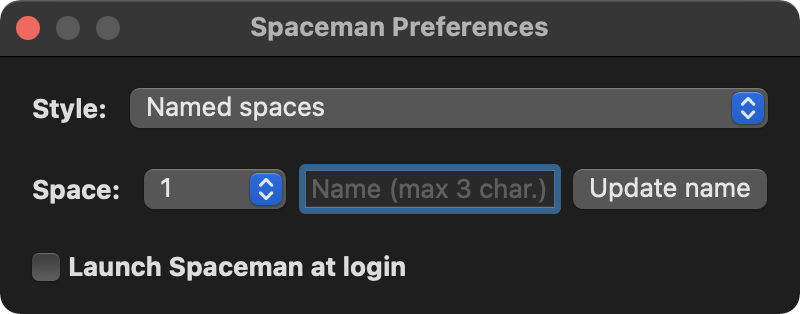
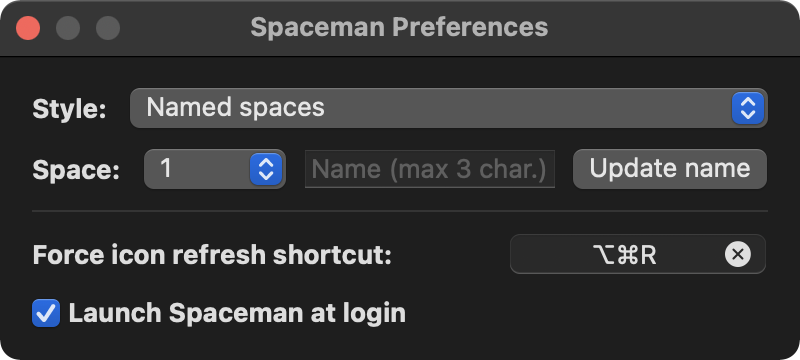
Update README.md

diff --git a/Spaceman/View/PreferencesView.swift b/Spaceman/View/PreferencesView.swift
@@ -15,9 +15,10 @@ struct PreferencesView: View {
     @ObservedObject private var prefsVM = PreferencesViewModel()
     
     var body: some View {
-        VStack(alignment: .leading, spacing: 20, content: {
+        VStack(alignment: .leading, spacing: 10, content: {
             StylePicker
             SpaceNameEditor.disabled(selectedStyle != 3 ? true : false)
+            Divider()
             ShortcutRecorder
             LaunchAtLogin.Toggle(){Text("Launch Spaceman at login").font(.headline)}
         })
@@ -48,7 +49,12 @@ struct PreferencesView: View {
                     Text(String(prefsVM.sortedSpaceNamesDict[$0].value.spaceNum))
                 }
             }
-            TextField("Name (max 3 char.)", text: Binding(get: {prefsVM.spaceName}, set: {prefsVM.spaceName = $0.prefix(3).trimmingCharacters(in: .whitespacesAndNewlines)}), onCommit: updateName)
+            TextField(
+                "Name (max 3 char.)",
+                text: Binding(
+                    get: {prefsVM.spaceName},
+                    set: {prefsVM.spaceName = $0.prefix(3).trimmingCharacters(in: .whitespacesAndNewlines)}),
+                onCommit: updateName)
             
             Button("Update name") {
                 updateName()

diff --git a/Spaceman/AppDelegate.swift b/Spaceman/AppDelegate.swift
@@ -12,15 +12,15 @@ import KeyboardShortcuts
 class AppDelegate: NSObject, NSApplicationDelegate {
 
     private let statusBar = StatusBar()
-    private let observer = SpaceObserver()
-    private let iconBuilder = IconCreator()
+    private let spaceObserver = SpaceObserver()
+    private let iconCreator = IconCreator()
 
     func applicationDidFinishLaunching(_ aNotification: Notification) {
-        observer.delegate = self
-        observer.updateSpaceInformation()
+        spaceObserver.delegate = self
+        spaceObserver.updateSpaceInformation()
         NSApp.activate(ignoringOtherApps: true)
         KeyboardShortcuts.onKeyUp(for: .refresh) { [] in
-            self.observer.updateSpaceInformation()
+            self.spaceObserver.updateSpaceInformation()
         }
     }
 
@@ -31,7 +31,7 @@ class AppDelegate: NSObject, NSApplicationDelegate {
 
 extension AppDelegate: SpaceObserverDelegate {
     func didUpdateSpaces(spaces: [Space]) {
-        let icon = iconBuilder.getIcon(for: spaces)
+        let icon = iconCreator.getIcon(for: spaces)
         statusBar.updateStatusBar(withIcon: icon)
     }
 }

diff --git a/Spaceman/Helpers/IconCreator.swift b/Spaceman/Helpers/IconCreator.swift
@@ -149,7 +149,7 @@ class IconCreator {
     }
     
     func getIconsWithDisplayProps(icons: [NSImage], spaces: [Space]) -> [(NSImage, Bool)] {
-        var iconsWithDisplayProperties = [(icon: NSImage, isOnDifferentDisplay: Bool)]()
+        var iconsWithDisplayProperties = [(NSImage, Bool)]()
         var currentDisplayID = spaces[0].displayID
         displayCount = 1
         

diff --git a/README.md b/README.md
@@ -5,7 +5,7 @@ Spaceman is a menu bar application for macOS that allows you to easily visualise
 **Spaceman requires macOS 11 Big Sur or greater.**
 
 ## Install
-### Hombrew
+### Homebrew
 `TODO`
 ### GitHub
 `TODO`
@@ -32,3 +32,11 @@ The meaning of the icons from left to right are:
 ![Spaceman Example](Images/Preferences.png)
 
 The style and the name of a space can be changed in preferences (shown above). A space is named by selecting the space from the dropdown, typing a name up to 3 characters and clicking the 'Update name' button or pressing enter.
+
+You can force a refresh of the icon using a custom keyboard shortcut if the icon fails to update. See #2.
+
+## Attributions
+- This project is based on [WhichSpace](https://github.com/gechr/WhichSpace)
+- This project uses [Sparkle](https://sparkle-project.org) for update delivery
+- This project makes use of [LaunchAtLogin](https://github.com/sindresorhus/LaunchAtLogin)
+- This project makes use of [KeyboardShortcuts](https://github.com/sindresorhus/KeyboardShortcuts)
